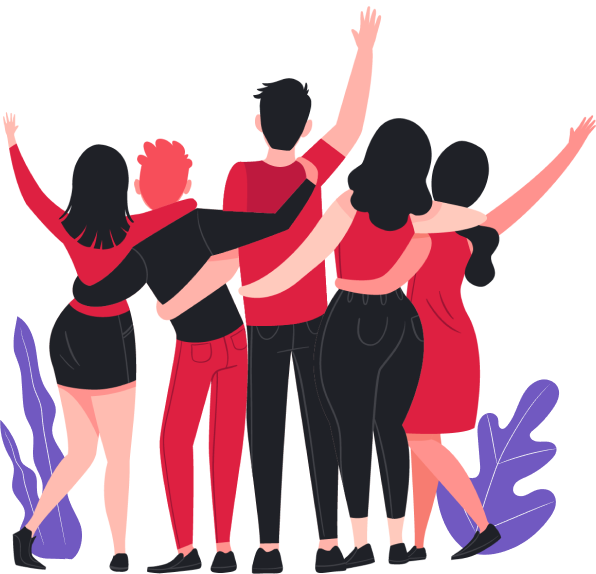
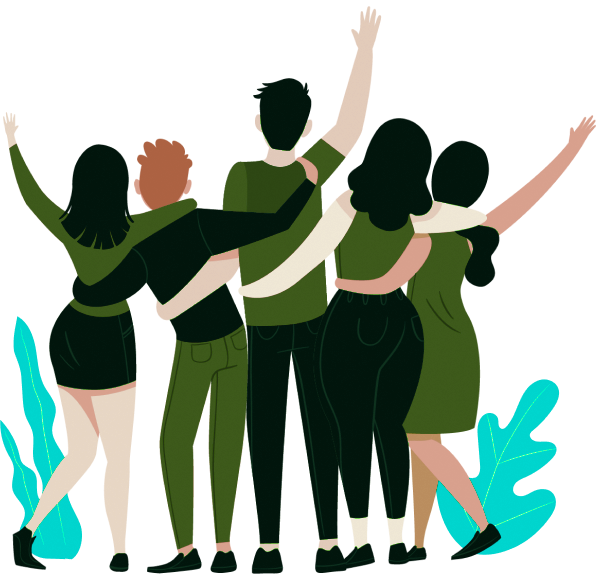
refactor: frontStyle

diff --git a/frontend/front/src/pages/Register/index.js b/frontend/front/src/pages/Register/index.js
@@ -1,6 +1,6 @@
 import { Link, useHistory } from 'react-router-dom';
 import { FiArrowLeft } from 'react-icons/fi';
-import logoImg from '../../assets/logo.svg'
+import logoImg from '../../assets/logo.png'
 import React, { useState } from 'react';
 import api from '../../services/api'
 import './styles.css';
@@ -39,7 +39,7 @@ export default function Register() {
           <h1>Cadastro</h1>
           <p>Faça seu cadastro, entre na plataforma e ajude pessoas a encontrarem os casos da sua ONG</p>
           <Link className="back-link" to="/">
-            <FiArrowLeft size={16} color="E02041" />
+            <FiArrowLeft size={16} color="#00924d" />
             Já tenho cadastro
           </Link>
         </section>

diff --git a/frontend/front/src/pages/Profile/index.js b/frontend/front/src/pages/Profile/index.js
@@ -1,7 +1,7 @@
 import React, { useState, useEffect } from "react";
 import { Link, useHistory } from 'react-router-dom';
 import { FiPower, FiTrash2 } from 'react-icons/fi'
-import logoImg from '../../assets/logo.svg'
+import logoImg from '../../assets/logo.png'
 import api from "../../services/api";
 import "../../services/api"
 import './styles.css'
@@ -56,7 +56,7 @@ export default function Profile() {
 
         <Link className="button" to="/incidents/new">Cadastrar novo caso</Link>
         <button onClick={handleLogout} type="button">
-          <FiPower size={18} color="#E02041" />
+          <FiPower size={18} color="#00924d" />
         </button>
       </header>
       <h1>Casos Cadastrados</h1>

diff --git a/frontend/front/src/pages/Logon/index.js b/frontend/front/src/pages/Logon/index.js
@@ -1,6 +1,6 @@
 import { Link, useHistory } from 'react-router-dom'
 import heroesImg from "../../assets/heroes.png";
-import logoImg from "../../assets/logo.svg";
+import logoImg from "../../assets/logo.png";
 import { FiLogIn } from "react-icons/fi";
 import React, { useState } from "react";
 import api from "../../services/api"
@@ -39,7 +39,7 @@ export default function Logon() {
           />
           <button className="button" type="submit">Entrar</button>
           <Link className="back-link" to="/register">
-            <FiLogIn size={16} color="E02041" />
+            <FiLogIn size={16} color="#00924d" />
             Não tenho cadastro
           </Link>
         </form>

diff --git a/frontend/front/src/pages/NewIncident/index.js b/frontend/front/src/pages/NewIncident/index.js
@@ -6,7 +6,7 @@ import api from '../../services/api';
 
 import './styles.css';
 
-import logoImg from '../../assets/logo.svg';
+import logoImg from '../../assets/logo.png';
 
 export default function NewIncident() {
   const [title, setTitle] = useState('');
@@ -50,7 +50,7 @@ export default function NewIncident() {
           <p>Descreva o caso detalhadamente para encontrar um herói para resolver isso.</p>
 
           <Link className="back-link" to="/profile">
-            <FiArrowLeft size={16} color="#E02041" />
+            <FiArrowLeft size={16} color="#00924d" />
             Voltar para home
           </Link>
         </section>

diff --git a/frontend/front/src/global.css b/frontend/front/src/global.css
@@ -45,7 +45,7 @@ form textarea {
 .button {
   width: 100%;
   height: 60px;
-  background: #e02041;
+  background: #00924d;
   border: 0;
   border-radius: 8px;
   color: #fff;
